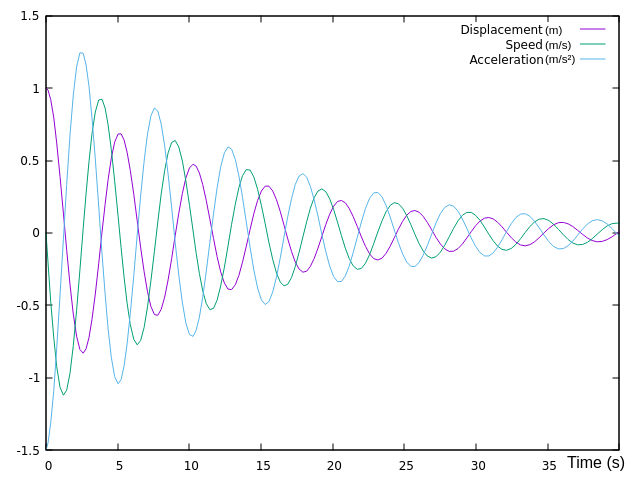
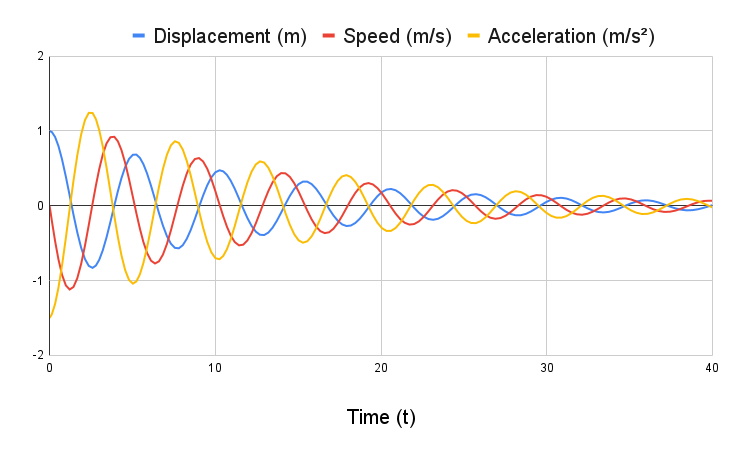
Improve graph of damped osc (gsheets)

diff --git a/thesis/chapters/04_methods.md b/thesis/chapters/04_methods.md
@@ -782,7 +782,7 @@ For more details, see [/software/problem.h](https://github.com/andrebianchessi/m
     p.PrintMassTimeHistory(1);
 ```
 
-![Plot of output of damped oscillator simulation example. Created with gnuplot](figs/dampedOsc.png){#fig:dampedOsc width=100% style="scale:1;"}
+![Plot of output of damped oscillator simulation example. Source: Author](figs/dampedOsc.png){#fig:dampedOsc width=100% style="scale:1;"}
 
 ## Genetic Algorithm Software {#sec:software_ga}
 
@@ -879,7 +879,7 @@ Some of the values of springs and dampers of the optimal solution we found are:
 |        k5|   21287.2|
 |        c5|    4957.4|
 
-![Example solution of COP: Sum of loss function of fittest population vs Generation](figs/msdsGa.png){#fig:msdsGa width=80% style="scale:1;"}
+![Example solution of COP with E-GA: Sum of loss function of fittest population vs Generation. Source: Author](figs/msdsGa.png){#fig:msdsGa width=80% style="scale:1;"}
 
 ## Experiments {#sec:experiments}
 
